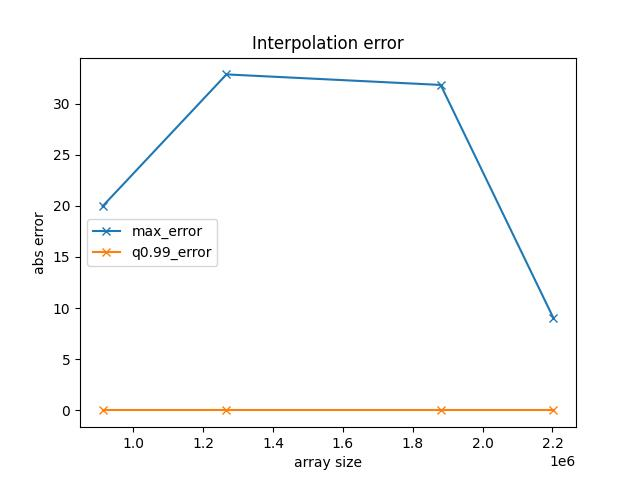
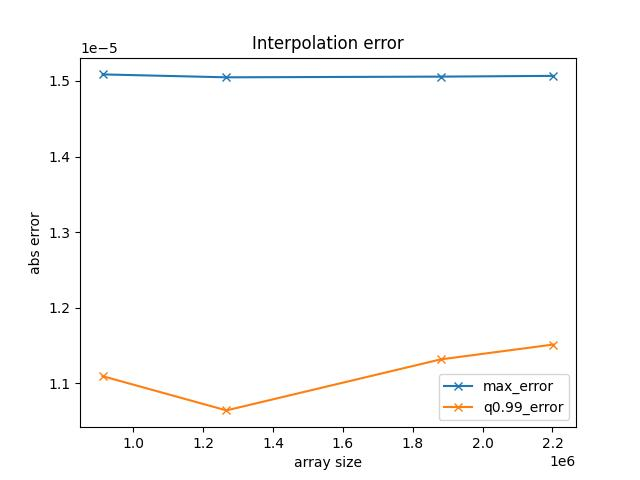
usage of scipy triangulation

diff --git a/cpp/src/triangulator.h b/cpp/src/triangulator.h
@@ -20,12 +20,12 @@ public:
     std::vector<std::vector<size_t>> point2tri;
     std::unordered_map<uint64_t, std::array<size_t, 2>> edge2tri;
 
-    Triangulator(const pyarr_size_t& pypoints, int n_jobs = 1) {
+    Triangulator(const pyarr_size_t& pypoints, const pyarr_size_t& pytriangles, int n_jobs = 1) {
         if (n_jobs < 0 and n_jobs != -1) {
             throw std::invalid_argument("Invalid number of workers, have to be -1 or positive integer");
         }
         n_jobs_ = n_jobs == -1 ? omp_get_num_procs() : n_jobs;
-        size_t n = pypoints.shape()[0];
+        size_t n = pypoints.shape(0);
         std::vector<double> double_points(2 * n);
         points.resize(2 * n);
         omp_set_dynamic(0);     // Explicitly disable dynamic teams
@@ -35,13 +35,21 @@ public:
             double_points.at(2 * i) = static_cast<double>(pypoints.at(i, 0));
             double_points.at(2 * i + 1) = static_cast<double>(pypoints.at(i, 1));
         }
-        delaunator::Delaunator delaunated(double_points);
-        triangles = std::move(delaunated.triangles);
+        // delaunator::Delaunator delaunated(double_points);
+        // triangles = std::move(delaunated.triangles);
+        triangles.resize(pytriangles.size());
+        #pragma parallel for
+        for (size_t i = 0; i < pytriangles.shape(0); ++i) {
+            size_t t = 3 * i;
+            triangles.at(t) = pytriangles.at(i, 0);
+            triangles.at(t + 1) = pytriangles.at(i, 1);
+            triangles.at(t + 2) = pytriangles.at(i, 2);
+        }
         #pragma parallel for
         for (size_t i = 0; i < n; ++i) {
             size_t j = 2 * i;
-            points.at(j) = static_cast<size_t>(delaunated.coords.at(j));
-            points.at(j + 1) = static_cast<size_t>(delaunated.coords.at(j + 1));
+            points.at(j) = static_cast<size_t>(pypoints.at(i, 0));
+            points.at(j + 1) = static_cast<size_t>(pypoints.at(i, 1));
         }
         point2tri.resize(n);
         for (size_t i = 0; i < triangles.size() / 3; ++i) {

diff --git a/cpp/src/interpolator.h b/cpp/src/interpolator.h
@@ -3,26 +3,27 @@ class Interpolator {
 public:
     using pyarr_float = py::array_t<float, py::array::c_style | py::array::forcecast>;
     const Triangulator triangulation;
-    Interpolator(const Triangulator::pyarr_size_t& points, int n_jobs)
-        : triangulation(points, n_jobs) {
+    Interpolator(const Triangulator::pyarr_size_t& points,
+                 const Triangulator::pyarr_size_t& triangles, int n_jobs)
+        : triangulation(points, triangles, n_jobs) {
     }
 
     pyarr_float operator()(const Triangulator::pyarr_size_t& int_points, const pyarr_float& values,
                            const Triangulator::pyarr_size_t& neighbors, double fill_value = 0.0) {
-        if (triangulation.points.size() / 2 != values.shape()[0]) {
+        if (triangulation.points.size() / 2 != values.shape(0)) {
             throw std::invalid_argument("Length mismatch between known points and their values");
         }
-        if (neighbors.shape()[0] != int_points.shape()[0]) {
+        if (neighbors.shape(0) != int_points.shape(0)) {
             throw std::invalid_argument("Length mismatch between int_points and their neighbors");
         }
 
-        size_t n = int_points.shape()[0];
+        size_t n = int_points.shape(0);
         std::vector<float> int_values(n, fill_value);
 
-        omp_set_dynamic(0);     // Explicitly disable dynamic teams
+        omp_set_dynamic(0);  // Explicitly disable dynamic teams
         omp_set_num_threads(triangulation.n_jobs_);
 
-        #pragma parallel for
+#pragma parallel for
         for (size_t i = 0; i < n; ++i) {
             size_t x = int_points.at(i, 0);
             size_t y = int_points.at(i, 1);
@@ -40,7 +41,7 @@ public:
                 int_values[i] = static_cast<float>(f1 * lambda_1 + f2 * lambda_2 + f3 * lambda_3);
             }
         }
-        
+
         return {{n}, {sizeof(float)}, int_values.data()};
     }
 };

diff --git a/parinterp/interpolator.py b/parinterp/interpolator.py
@@ -1,11 +1,11 @@
 import numpy as np
 from cpp.build.parinterp import Linear2DInterpolatorCpp
-from scipy.spatial import KDTree
-from typing import Union
+from scipy.spatial import KDTree, Delaunay
 
 class Linear2DInterpolator(Linear2DInterpolatorCpp):
     def __init__(self, points: np.ndarray, n_jobs: int = 1, **kwargs):
-        super().__init__(points, n_jobs)
+        simplices = Delaunay(points).simplices
+        super().__init__(points, simplices, n_jobs)
         self.kdtree = KDTree(data=points, **kwargs)
         self.n_jobs = n_jobs
 

diff --git a/cpp/src/main.cpp b/cpp/src/main.cpp
@@ -8,7 +8,7 @@
 
 PYBIND11_MODULE(parinterp, m) {
     py::class_<Interpolator>(m, "Linear2DInterpolatorCpp", "Interpolator class")
-        .def(py::init<const Triangulator::pyarr_size_t&, int>())
+        .def(py::init<const Triangulator::pyarr_size_t&, const Triangulator::pyarr_size_t&, int>())
         .def("__call__", &Interpolator::operator());
 }
 
